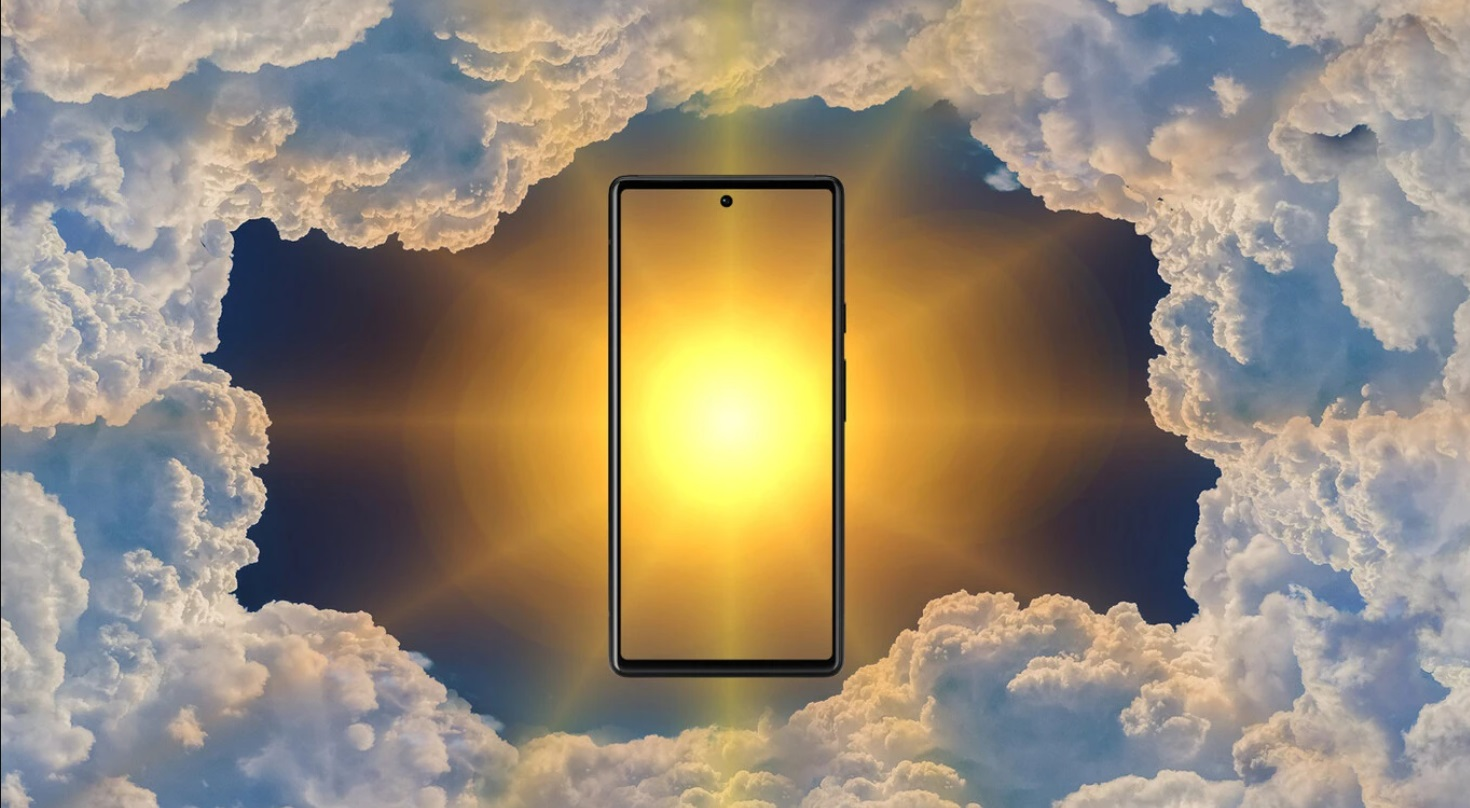
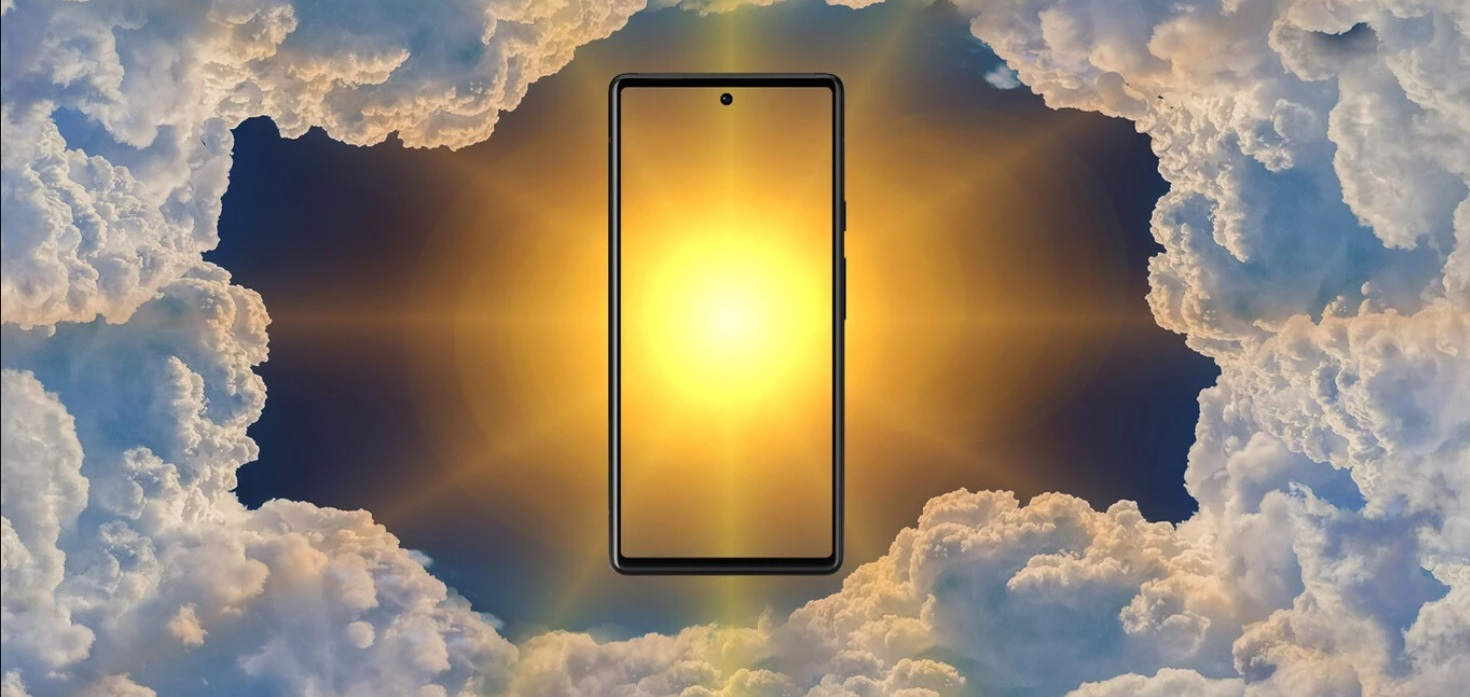
color gris y menos margin top

diff --git a/index.html b/index.html
@@ -8,7 +8,7 @@
 </head>
 <body>
     <div class="d-flex justify-content-center align-items-center" style="margin-top: 20px;">
-        <div id="card" class="bg-white rounded">
+        <div id="card" class="rounded">
         <h2 class="text-center">Weather API</h2>
         <div id="earthIMG" class="text-center">
             <a href="https://www.weatherapi.com/" title="Weather API" target="_blank"><img src='img/earth.png' alt="WeatherAPI.com"></a>

diff --git a/style.css b/style.css
@@ -25,10 +25,11 @@ body {
 }
 
 #card{
-    margin-top: 11%;
+    background-color: rgb(193, 193, 193);
+    margin-top: 4.1%;
     margin-left: -1%;
     padding-top: 1%;
     padding-left: 1%; 
     padding-right: 1%; 
-    padding-bottom: 2%;
+    padding-bottom: 0.5%;
 }
